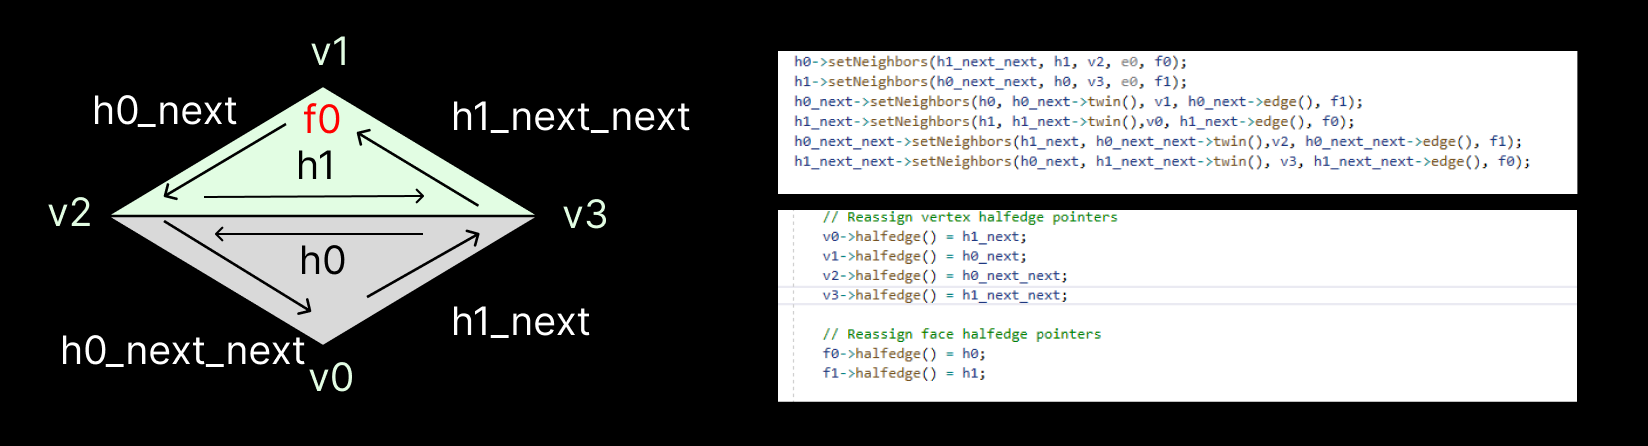
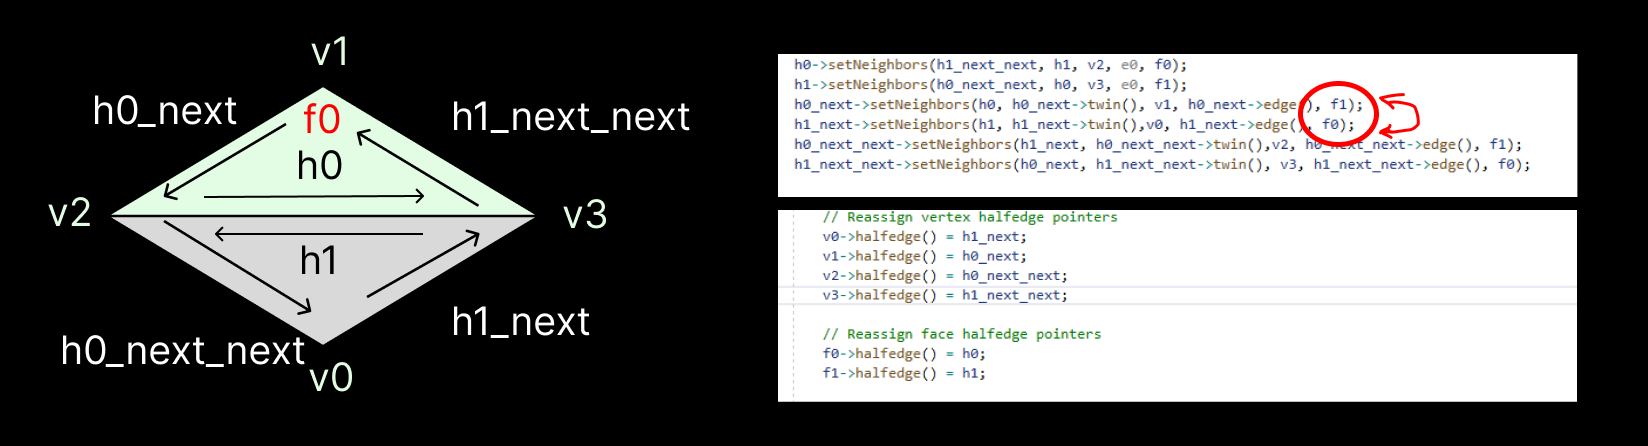
Update Task 4

diff --git a/hw2/index.html b/hw2/index.html
@@ -221,19 +221,25 @@
                     elements, do not perform the flip.</li>
                 <li><strong>Identify Key Elements:</strong> Determine the elements directly related to the edge to be
                     flipped: four vertices, six half-edges, two faces.
-                    <code>VertexIter v0, v1, v2, v3; HalfedgeIter h0, h1, h2, h3; FaceIter f0, f1;</code></li>
-                    <img src="../hw2_IMGs/Task4 _IdentifyElements.png" alt="Identify Elements">
+                    <code>VertexIter v0, v1, v2, v3; HalfedgeIter h0, h1, h2, h3; FaceIter f0, f1;</code>
+                </li>
+                <img src="../hw2_IMGs/Task4 _IdentifyElements.png" alt="Identify Elements">
                 <li><strong>Update Pointers and Half-Edge Pointers of Vertices, Edges, and Faces:</strong> Reallocate
                     the pointers of the half-edges to reflect the new connections.
                     <code>h0-&gt;setNeighbors(...), h1-&gt;setNeighbors(...), ...</code> Ensure that each half-edge's
                     next, twin, vertex, edge, and face pointers are correctly directed towards the appropriate elements.
-                    And in this step I encountered the following errors:</li>
-                    <img src="../hw2_IMGs/Task4 _reassign_pointer.png" alt="Update Pointers">
-                    <img src="../hw2_IMGs/Task4 _Failed.png" alt="Failed attempts">
-                <li>TODO:how to Fix</li>
+                    And in this step I encountered the following errors:
+                </li>
+                <img src="../hw2_IMGs/Task4 _reassign_pointer.png" alt="Update Pointers">
+                <img src="../hw2_IMGs/Task4 _Failed.png" alt="Failed attempts">
+                <li>My Fix: This is a correction made by ChatGPT. I attempted to comprehend it, but it didn't seem to
+                    make sense. Regardless, I also revised my own code. After attending the office hours on Tuesday, I
+                    realized the issue was that the faces of h0_next and h1_next were not set correctly, as evident from
+                    the <span style="color: red;">red circle</span> in the image above. As long as I switch the surface, it functions well.<span style="font-style: italic;">😁</span></li>
                 <img src="../hw2_IMGs/Task4 _success.png" alt="Fixed">
-                </ol>
-        
+
+            </ol>
+
         </div>
     </section>
 
